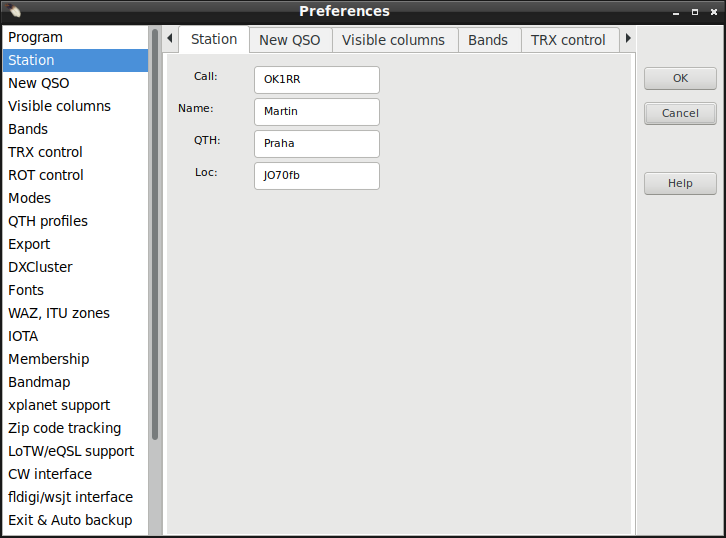
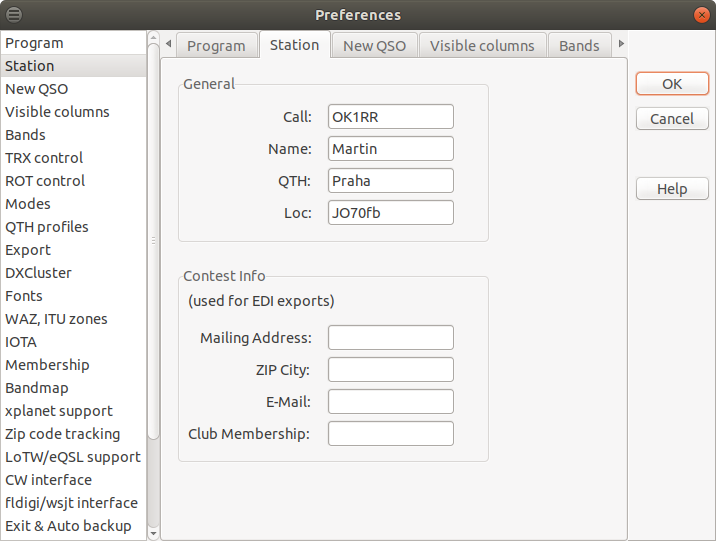
Update documentation

diff --git a/help/h3.html b/help/h3.html
@@ -83,7 +83,17 @@
     <img src=img/h45e.png><br><br>
     Choose the 'HTML' option from QSO list Export menu.<br><br>
     <p align=center><img src=img/line.png></p>
-    <p><a name=ah27><strong>Program version update:</strong></a><br><br>
+    <p><a name=ah27><strong>EDI export</strong></a><br><br>
+    This function can be used to export contest logs in .edi file format. This export requires a 
+    suitable filter to be set. Generally only one band per file is allowed. Also make sure that the
+    fields like exchange sent/received are set properly before exporting. If you choose this export
+    you will see the follwing window.
+    <br><br>
+    <img src=img/h45f.png><br><br>
+    You can set the filename to export to as well as some meta data describing the equipment you
+    used for this contest.
+    <p align=center><img src=img/line.png></p>
+    <p><a name=ah28><strong>Program version update:</strong></a><br><br>
     Ubuntu 16.04, 17.10, 18.04 users can use CQRLOG’s repository on Launchpad. To add repository to your system, put into terminal this:<br/>
     <br>sudo add-apt-repository ppa:ok2cqr/ppa;sudo apt-get update;sudo apt-get install cqrlog<br>
     <br>For those who does not use Ubuntu, load install package, or binaries, from: Cqrlog.com <a href="https://www.cqrlog.com/download" target="_new"> download page.</a><br>
@@ -101,7 +111,7 @@
         </tbody>
     </table>
     <p align=center><img src=img/line.png></p>    
-    <a name=ah28><strong>How to update Country files:</strong></a><br>
+    <a name=ah29><strong>How to update Country files:</strong></a><br>
     <ol>
         <li>Unpack and copy all the files into the /ctyfiles folder in your CQRLOG main folder.
             The purpose of this folder is to store these files only, it is not bound to CQRLOG and
@@ -166,7 +176,7 @@
     Remember that a regular rebuild of your DXCC statistics is a matter of importance.
     Rebuild if you upgrade country files, rebuild also if you upgrade the program version!
     <p align=center><img src=img/line.png></p>
-    <a name=ah29><strong>QSL Manager Database update</strong></a><br><br>
+    <a name=ah30><strong>QSL Manager Database update</strong></a><br><br>
     Since version 0.8.0 CQRLOG uses its own QSL Manager database in a very simple, plain
     text format (CSV, semicolon separated). The update is very simple. The automated update
     checks the availability of a new version, downloads and unpacks the tar.gz file if
@@ -212,7 +222,7 @@ Example:
     QSL manager from another source. This ensures that the QSL label will contain the
     proper QSL manager.
     <p align=center><img src=img/line.png></p>
-    <a name=ah30><strong>Statistics rebuilding</strong></a><br><br>
+    <a name=ah31><strong>Statistics rebuilding</strong></a><br><br>
     <img src=img/h46.png><br><br>
     The only way to rebuild your statistics is <strong>from the QSO list</strong>.
     The 'Statistics' menu item has the 'Rebuild DXCC statistics' option (the similar option
@@ -234,7 +244,7 @@ Example:
     long wait.<br><br>
     <img src=img/h47.png>
     <p align=center><img src=img/line.png></p>
-    <a name=ah31><strong>Membership databases</strong></a><br><br>
+    <a name=ah32><strong>Membership databases</strong></a><br><br>
     CQRLOG supports online tracking of up to 5 memberships simultaneously. The membership
     databases can also be used for filter creation, along with a date span (from-to).
     The tracking and filtering feature is not limited to membership, you can create your
@@ -302,7 +312,7 @@ High Speed Club</pre>
     </table>
     <br>
     <p align=center><img src=img/line.png></p>
-    <a name=ah32><strong>Log backup</strong></a><br><br>
+    <a name=ah33><strong>Log backup</strong></a><br><br>
     Your log is in the <br>
     <pre>/home/~/.config/cqrlog/</pre>
     (the tilde ~ represents the name of your personal subdirectory within the 'home' folder).

diff --git a/help/index_left.html b/help/index_left.html
@@ -81,13 +81,14 @@
     <li><a target="right" href="h3.html#ah24">ADIF import</a></li>
     <li><a target="right" href="h3.html#ah25">ADIF export</a></li>
     <li><a target="right" href="h3.html#ah26">HTML export</a></li>
-    <li><a target="right" href="h3.html#ah27">Program version update</a></li>
-    <li><a target="right" href="h3.html#ah28">Country files update</a></li>
-    <li><a target="right" href="h3.html#ah29">QSL Manager Database update</a></li>
-    <li><a target="right" href="h3.html#ah30">Statistics Rebuilding</a></li>
+    <li><a target="right" href="h3.html#ah27">EDI export</a></li>
+    <li><a target="right" href="h3.html#ah28">Program version update</a></li>
+    <li><a target="right" href="h3.html#ah29">Country files update</a></li>
+    <li><a target="right" href="h3.html#ah30">QSL Manager Database update</a></li>
+    <li><a target="right" href="h3.html#ah31">Statistics Rebuilding</a></li>
     <li><a target="right" href="h7.html#cfm">LoTW confirmation report update</a></li>
-    <li><a target="right" href="h3.html#ah31">Membership databases</a></li>
-    <li><a target="right" href="h3.html#ah32">Log backup</a></li>
+    <li><a target="right" href="h3.html#ah32">Membership databases</a></li>
+    <li><a target="right" href="h3.html#ah33">Log backup</a></li>
 </ul>
 <strong><h3>Miscellaneous</h3></strong>
 <ul>

diff --git a/help/h1.html b/help/h1.html
@@ -121,6 +121,10 @@
     your exact coordinates). The QRA Locator is used in beam heading and distance computation as
     well as the start point of the simplified path to the other station which appears on the
     grayline map.<br>Locator writing format is forced to "AB12cd" that follows definition  https://en.wikipedia.org/wiki/Maidenhead_Locator_System#Description_of_the_system 
+    <br><br>
+    If you want to use the export function to export contest logs as .edi file you can fill in your
+    personal data into the filelds in the <strong>General</strong> section. Those are then also 
+    exported to your contest logs.
 </div>
 <p align=center><img src=img/line.png></p>
 <a name=ah4><h2><strong>New QSO</strong></h2></a>
